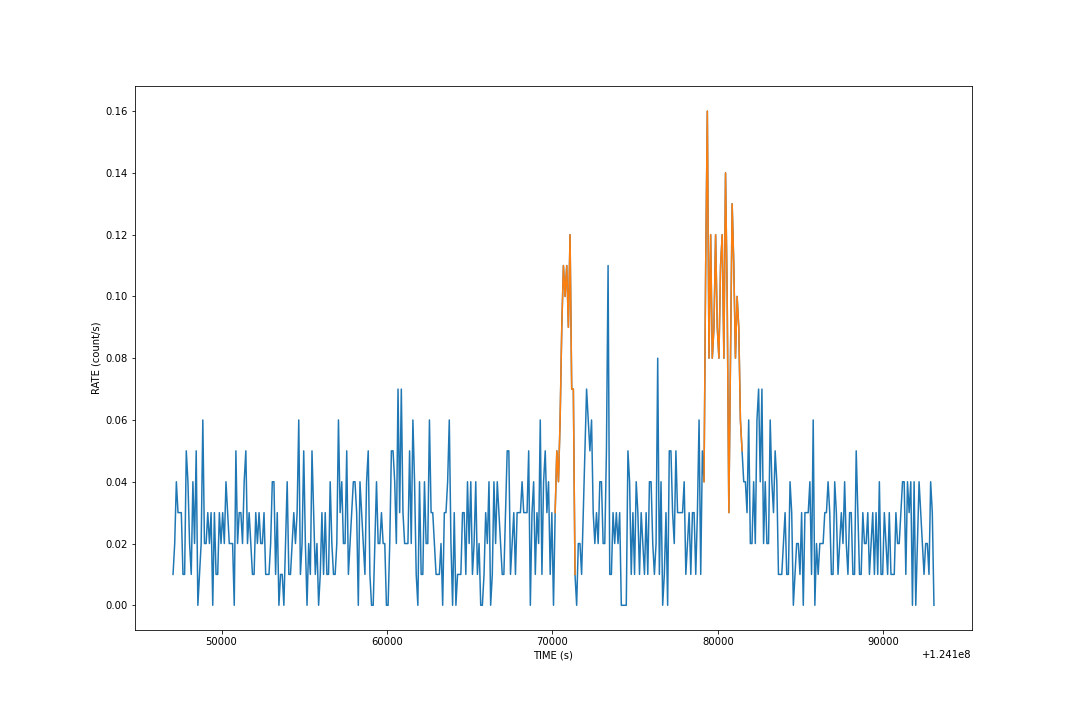
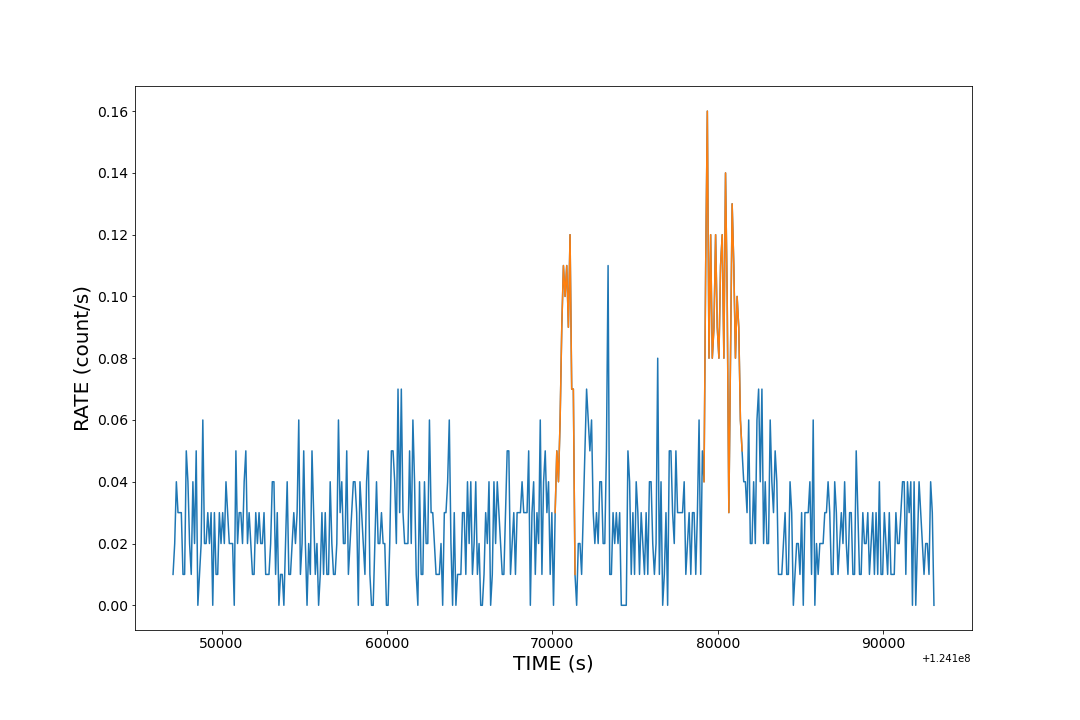
newlt

diff --git a/_posts/2023-03-28-First-try.md b/_posts/2023-03-28-First-try.md
@@ -88,7 +88,7 @@ Be careful that the part "RGS1_SRC1_SPATIAL" will turn to "RGS1_SRC3_SPATIAL" an
 evselect table=r1_evt1.fits:EVENTS withrateset=yes rateset=ltcrv.fits maketimecolumn=yes timebinsize=100 makeratecolumn=yes expression='(CCDNR==9)&&(REGION(r1_src.fits:RGS1_BACKGROUND,M_LAMBDA,XDSP_CORR))'
 ```
 
-<img src="https://raw.githubusercontent.com/LittleCaps/LittleCaps.github.io/master/screenshots/ltcrv.png" alt="ltcrv" style="zoom:80%;" />
+<img src="https://raw.githubusercontent.com/LittleCaps/LittleCaps.github.io/master/screenshots/ltcrv1.png" alt="ltcrv" style="zoom:80%;" />
 
 There are loud sections in the observation. To remove it, we need to make an additional Good Time Interval (GTI) file and apply it by rerunning rgsproc.
 
